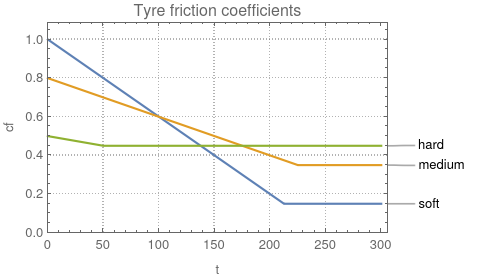
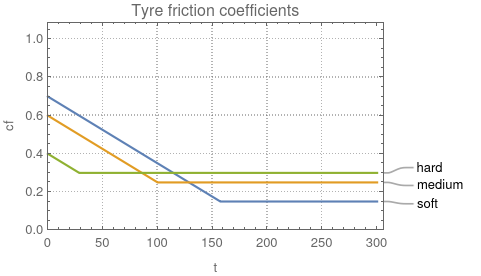
v0.5.1 (friction balance)

diff --git a/controllers/referee/include/mcu.h b/controllers/referee/include/mcu.h
@@ -17,17 +17,17 @@
 #define DETECTION_LIMIT 970
 #define WAYPOINT_DISTANCE 0.25
 
-#define CF_SOFT_MAX 0.60
+#define CF_SOFT_MAX 0.70
 #define CF_SOFT_MIN 0.15
-#define CF_SOFT_DELTA 0.004 // per second
+#define CF_SOFT_DELTA 0.0035 // per second
 
-#define CF_MEDIUM_MAX 0.50
+#define CF_MEDIUM_MAX 0.60
 #define CF_MEDIUM_MIN 0.25
-#define CF_MEDIUM_DELTA 0.002
+#define CF_MEDIUM_DELTA 0.0035
 
 #define CF_HARD_MAX 0.40
 #define CF_HARD_MIN 0.30
-#define CF_HARD_DELTA 0.001
+#define CF_HARD_DELTA 0.0035
 
 typedef intptr_t ssize_t;
 
